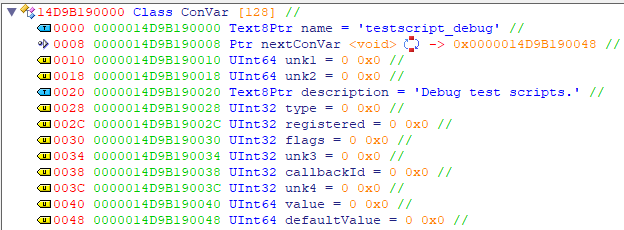
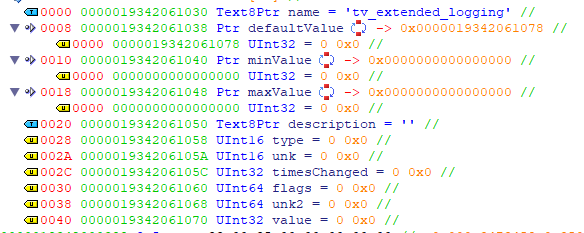
update convar structure

Changed region(s): [[0.0, 0.0, 1.0, 1.0]]

diff --git a/docs/reverse-engineering/ConVars.md b/docs/reverse-engineering/ConVars.md
@@ -24,29 +24,30 @@ If we iterate through the array and dereference the pointers, we can get all the
 
 ## ConVar structure
 
+Thanks to SlidyBat for the proper ConVar structure.
+
 ```cpp
 class ConVar
 {
 public:
-	char *name; //0x0000
-	void *nextConVar; //0x0008
-	uint64_t unk1; //0x0010
-	uint64_t unk2; //0x0018
-	char *description; //0x0020
-	uint32_t type; //0x0028
-	uint32_t registered; //0x002C
-	uint32_t flags; //0x0030
-	uint32_t unk3; //0x0034
+	const char *name; //0x0000
+	ConVarValue_t *defaultValue; //0x0008
+	ConVarValue_t *minValue; //0x0010
+	ConVarValue_t *maxValue; //0x0018
+	const char *description; //0x0020
+	ConVarType_t type; //0x0028
+	uint16_t padding; //0x002A
+	uint32_t timesChanged; //0x002C
+	ConVarFlags_t flags; //0x0030
 	uint32_t callbackId; //0x0038
-	uint32_t unk4; //0x003C
-	uint64_t value; //0x0040
-	uint64_t defaultValue; //0x0048
-}; //Size: 0x0050
+	uint32_t unk; //0x003C
+	ConVarValue_t value[]; //0x0040
+}; //Size: 0x0044
 ```
 
 ![ConVar structure](img/convarstruct.png)
 
-`callbackId` is an index of a callback in an array of callbacks.
+`callbackId` is the index of the callback that gets looked up in another linked list.
 
 `type` indicates the type of the value.
 Current known types are:
@@ -55,6 +56,4 @@ Current known types are:
 - 7: `float`
 - TODO
 
-:::caution
-For whatever reason, some convars don't have a defaultValue field, unsure in which conditions this happens. For example the `mat_shading_complexity` convar does this
-:::
+In most cases there's only one value, but if the flag is `FCVAR_PER_USER` it will be equal to `g_pCVar->GetMaxSplitScreenSlots()`.
